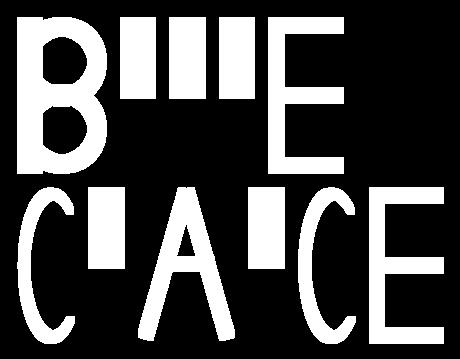
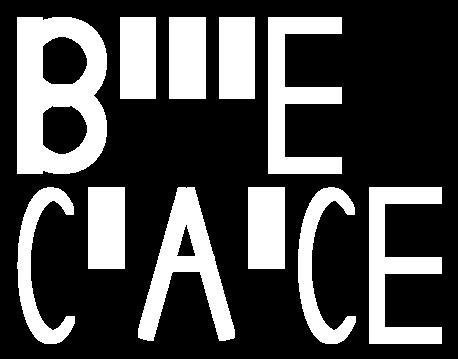
lettre E final

diff --git a/src/main/java/Letter/LetterFactory.java b/src/main/java/Letter/LetterFactory.java
@@ -104,9 +104,9 @@ public final class LetterFactory {
         Rectangle middleBarRectangle = new Rectangle(halfStripeThickness, horizontalBarHeight);
         Rectangle bottomBarRectangle = new Rectangle(halfStripeThickness, horizontalBarHeight);
         Double horizontalAngle = 2 * Math.PI / 4;
-        Point2d topBarTranslationVector = new Point2d(37.0, -70.0);
-        Point2d middleBarTranslationVector = new Point2d(37.0, 0.0);
-        Point2d bottomBarTranslationVector = new Point2d(37.0, 70.0);
+        Point2d topBarTranslationVector = new Point2d(35.0, -70.0);
+        Point2d middleBarTranslationVector = new Point2d(35.0, 0.0);
+        Point2d bottomBarTranslationVector = new Point2d(35.0, 70.0);
         topBarRectangle.rotate(topBarRectangle.getCoords(), horizontalAngle);
         middleBarRectangle.rotate(middleBarRectangle.getCoords(), horizontalAngle);
         bottomBarRectangle.rotate(bottomBarRectangle.getCoords(), horizontalAngle);
